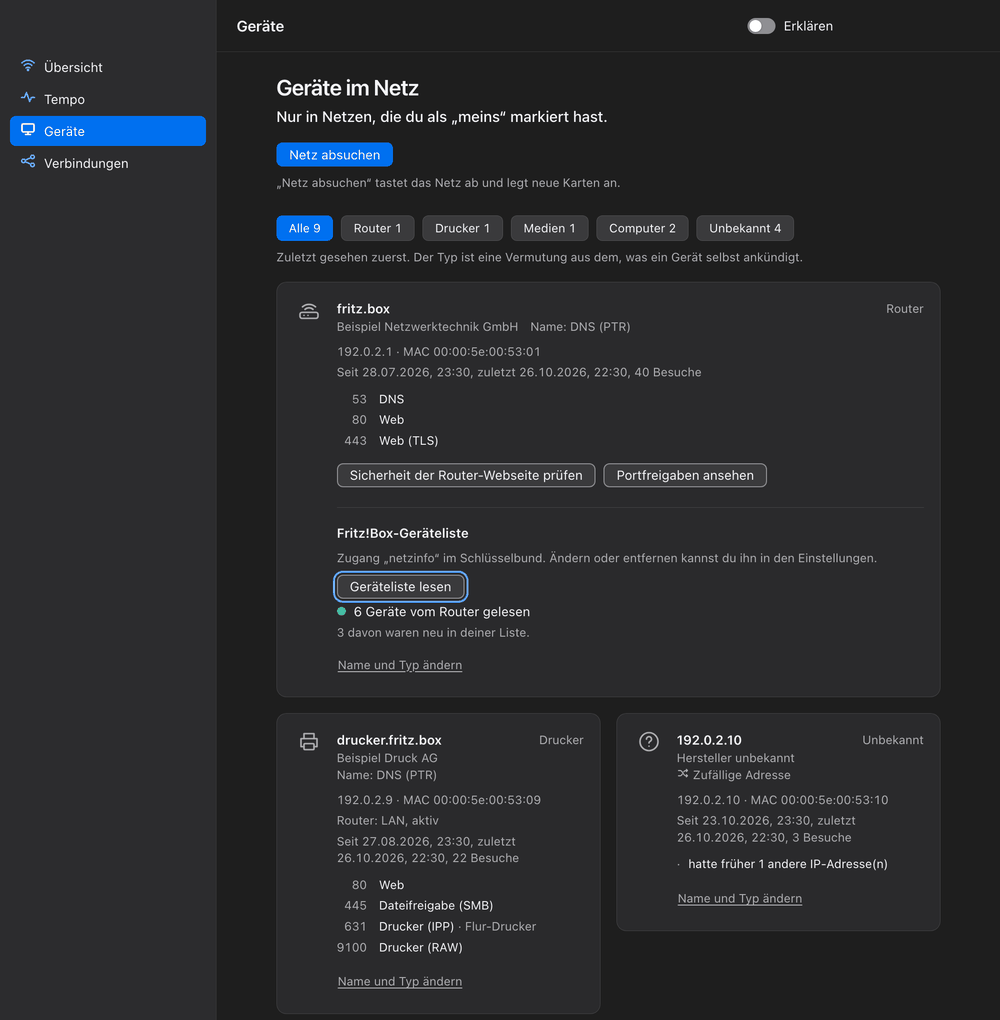
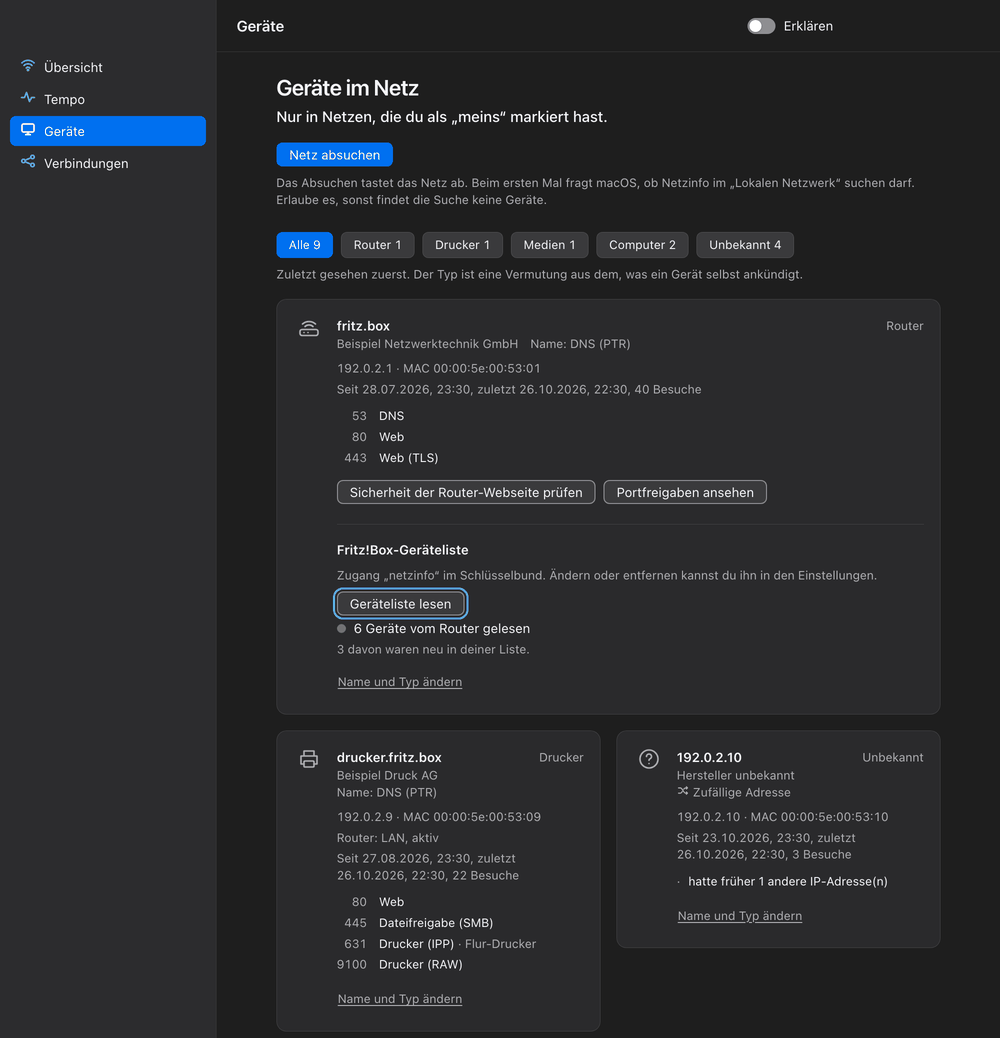
Feinschliff 5: Nachzug (#176)
- Übersicht: kein loses „null“ mehr unter dem Merken-Knopf, wenn keine Standortkarte nötig ist (Kabel, VPN).
- Hilfe: `geraete <Bereich> --gross` steht in Hilfe und README; die App verweist darauf.
- „Im Netz“ gegen den Code: `geraete` probiert 12 TCP-Ports je Adresse, `messen` fragt DNS und baut TCP-Verbindungen auf (keine Pings), `offen --aussen` probiert die eigene Netzadresse.
- `rust-version` in beiden Cargo.toml (Kommandozeile 1.89, App 1.90 wegen Tauri), per Clippy `incompatible_msrv` geprüft; README nennt dieselben Zahlen.
- CONTRIBUTING und Fehlervorlage: „Über Netzinfo“ statt „About Netzinfo“, das Menü ist jetzt deutsch.
- README-Bild Geräte neu, mit dem Hinweis auf „Lokales Netzwerk“.

Teil von #176

diff --git a/app/ui/ansichten/uebersicht.js b/app/ui/ansichten/uebersicht.js
@@ -142,7 +142,7 @@
 
       // Ohne Standortfreigabe zeigt macOS den WLAN-Namen nicht: Das steht hier, wo „Netz: WLAN“ steht, nicht tief in „Details“.
       const ort = funk ? Netz.dieses.ortKarte(await Netz.dieses.mitFrist(Netz.invoke('ort_status'), 10000).catch(() => 'Erlaubt')) : null;
-      wurzel.append(ansage, kopf, belege, werte(d, funk, vpn), aktion, ort && el('div', { class: 'eingebettet', 'data-ansicht': 'dieses-netz' }, ort), details);
+      wurzel.append(ansage, kopf, belege, werte(d, funk, vpn), aktion, ort ? el('div', { class: 'eingebettet', 'data-ansicht': 'dieses-netz' }, ort) : '', details); // append schreibt null als Text
       if (kannPruefen) aktion.append(pruefKnopf);
       else if (d.erkennung_fehler) aktion.append(el('button', { class: 'knopf haupt', type: 'button', onclick: () => Netz.neuLaden() }, 'Neu lesen', el('span', { class: 'kbd', 'aria-hidden': 'true', text: '⌘R' })));
       else aktion.append(Netz.dieses.offenKnopf());

diff --git a/src/main.rs b/src/main.rs
@@ -130,6 +130,10 @@ const GRUPPEN: &[(&str, &[(&str, &str)])] = &[
                 "Gerätekarten mit Typ und Hinweisen aus dem Gemerkten",
             ),
             (
+                "geraete <Bereich> --gross",
+                "Bereich größer als /22 absuchen (bis /16), dauert lange",
+            ),
+            (
                 "fritzbox [--zugang <Benutzer>|--entfernen]",
                 "Geräteliste der Fritz!Box (TR-064), Zugang im Schlüsselbund (nur Mac)",
             ),
@@ -276,7 +280,7 @@ const DETAILS: &[(&str, &str, &str)] = &[
     (
         "messen",
         "messen --minuten 5",
-        "Schickt Pings (ICMP) und speichert die Werte je Netz.",
+        "Fragt DNS beim Router und bei 1.1.1.1, baut TCP-Verbindungen zu 1.1.1.1 auf und speichert die Zeiten je Netz.",
     ),
     (
         "bericht",
@@ -321,7 +325,7 @@ const DETAILS: &[(&str, &str, &str)] = &[
     (
         "geraete",
         "geraete --karten",
-        "Fragt Geräte im eigenen Netz (Bonjour, UPnP, DNS). Nur private Adressen, nur in „meins“-Netzen.",
+        "Probiert an jeder Adresse 12 TCP-Ports (mit --nachbarn auch einen Ping) und fragt Bonjour, UPnP und DNS. Nur private Adressen, nur in „meins“-Netzen.",
     ),
     (
         "fritzbox",
@@ -346,7 +350,7 @@ const DETAILS: &[(&str, &str, &str)] = &[
     (
         "offen",
         "offen --json",
-        "Liest nur diesen Rechner, sendet nichts. --aussen fragt zusätzlich von außen.",
+        "Liest nur diesen Rechner, sendet nichts. --aussen probiert die Ports an der Netzadresse dieses Macs.",
     ),
     (
         "verbindungen",

diff --git a/README.md b/README.md
@@ -182,6 +182,7 @@ Anzahl Hosts:  62
 |---|---|
 | `netzinfo geraete [--nachbarn]` | Geräte im eigenen Netz, neu und verschwunden, mit MAC und Hersteller (`--nachbarn` nur Mac) |
 | `netzinfo geraete --karten` | Gerätekarten mit Typ und Hinweisen |
+| `netzinfo geraete <Bereich> --gross` | Bereich größer als /22 absuchen (bis /16), dauert lange |
 | `netzinfo fritzbox [--zugang <Benutzer>\|--entfernen]` | Geräteliste der Fritz!Box über TR-064, Zugang im Schlüsselbund (nur Mac) |
 | `netzinfo ports <Host>` | Offene Ports eines eigenen Geräts |
 | `netzinfo bonjour [--txt]` | Dienste, die sich per Bonjour melden |
@@ -225,7 +226,7 @@ Sicherheitslücken bitte nicht als Issue melden, sondern wie in [SECURITY.md](SE
 
 ## Selbst bauen
 
-Du brauchst aktuelles Rust stable (mindestens 1.85 wegen Edition 2024) und die Xcode Command Line Tools. Die Oberfläche ist schlichtes HTML, CSS und JavaScript ohne npm. Node brauchst du nur für die `.dmg` (siehe unten).
+Du brauchst aktuelles Rust stable (mindestens 1.89, für die App 1.90 wegen Tauri) und die Xcode Command Line Tools. Die Oberfläche ist schlichtes HTML, CSS und JavaScript ohne npm. Node brauchst du nur für die `.dmg` (siehe unten).
 
 Land und Anbieter in `verbindungen` brauchen zwei Offline-Datenbanken (zusammen etwa 18 MB, nicht im Git): `sh tools/ipdb-bauen.sh ipdb` lädt sie mit fester Version und Prüfsumme. Ohne sie bleiben die beiden Felder leer. Ein selbst gebautes Programm findet den Ordner über `NETZ_IPDB`:
 

diff --git a/CONTRIBUTING.md b/CONTRIBUTING.md
@@ -2,7 +2,7 @@
 
 ## Fehler melden (zwei Minuten)
 
-1. Version holen: `netzinfo --version`, in der App der Eintrag „About Netzinfo“ im Menü „Netzinfo“.
+1. Version holen: `netzinfo --version`, in der App der Eintrag „Über Netzinfo“ im Menü „Netzinfo“.
 2. Den Befehl noch einmal mit `--erklaer` starten und die Ausgabe kopieren. Bei der App: Ansicht, Text oder Screenshot.
 3. Echte IP-Adressen, MACs, Hostnamen und WLAN-Namen ersetzen durch `192.0.2.x`, `198.51.100.x`, `203.0.113.x`, `2001:db8::` und `aa:bb:cc:dd:ee:ff`. Das gilt auch für Screenshots.
 4. [Fehler melden](https://github.com/MiaLaMala/netzinfo/issues/new?template=fehler.yml) und die Felder ausfüllen. Eine Sicherheitslücke bitte nicht hier, sondern wie in [SECURITY.md](SECURITY.md).
